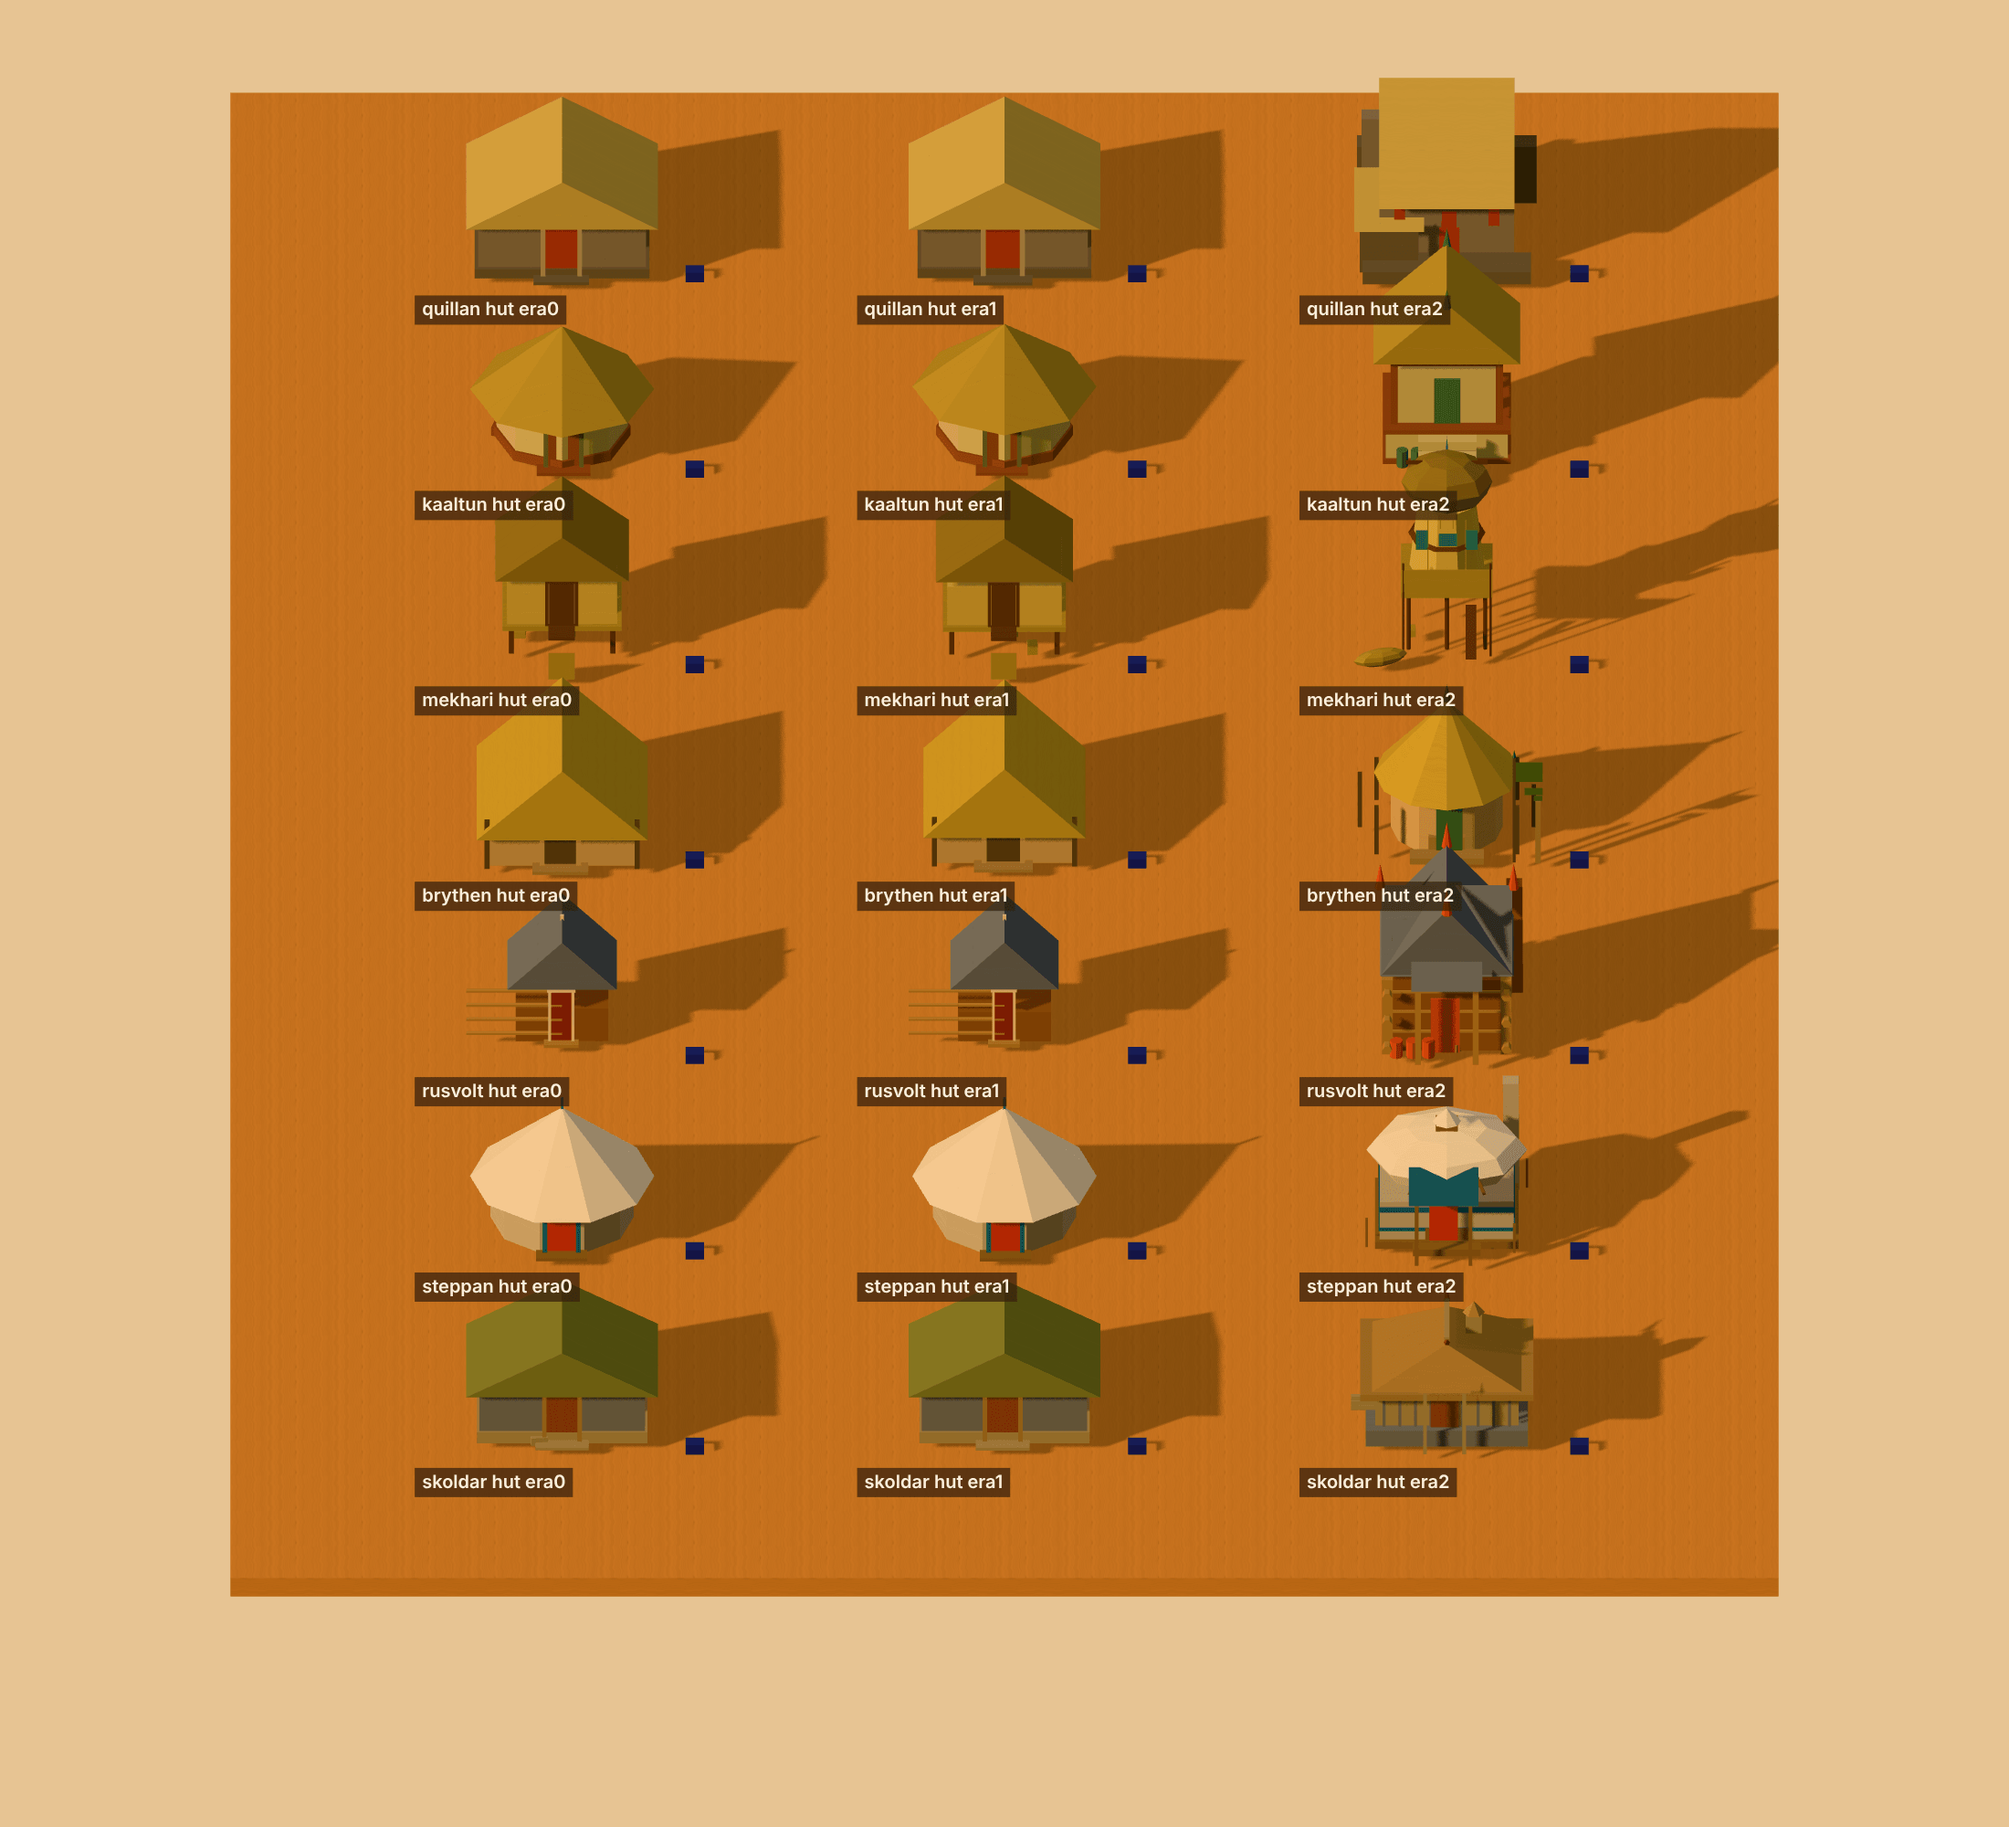
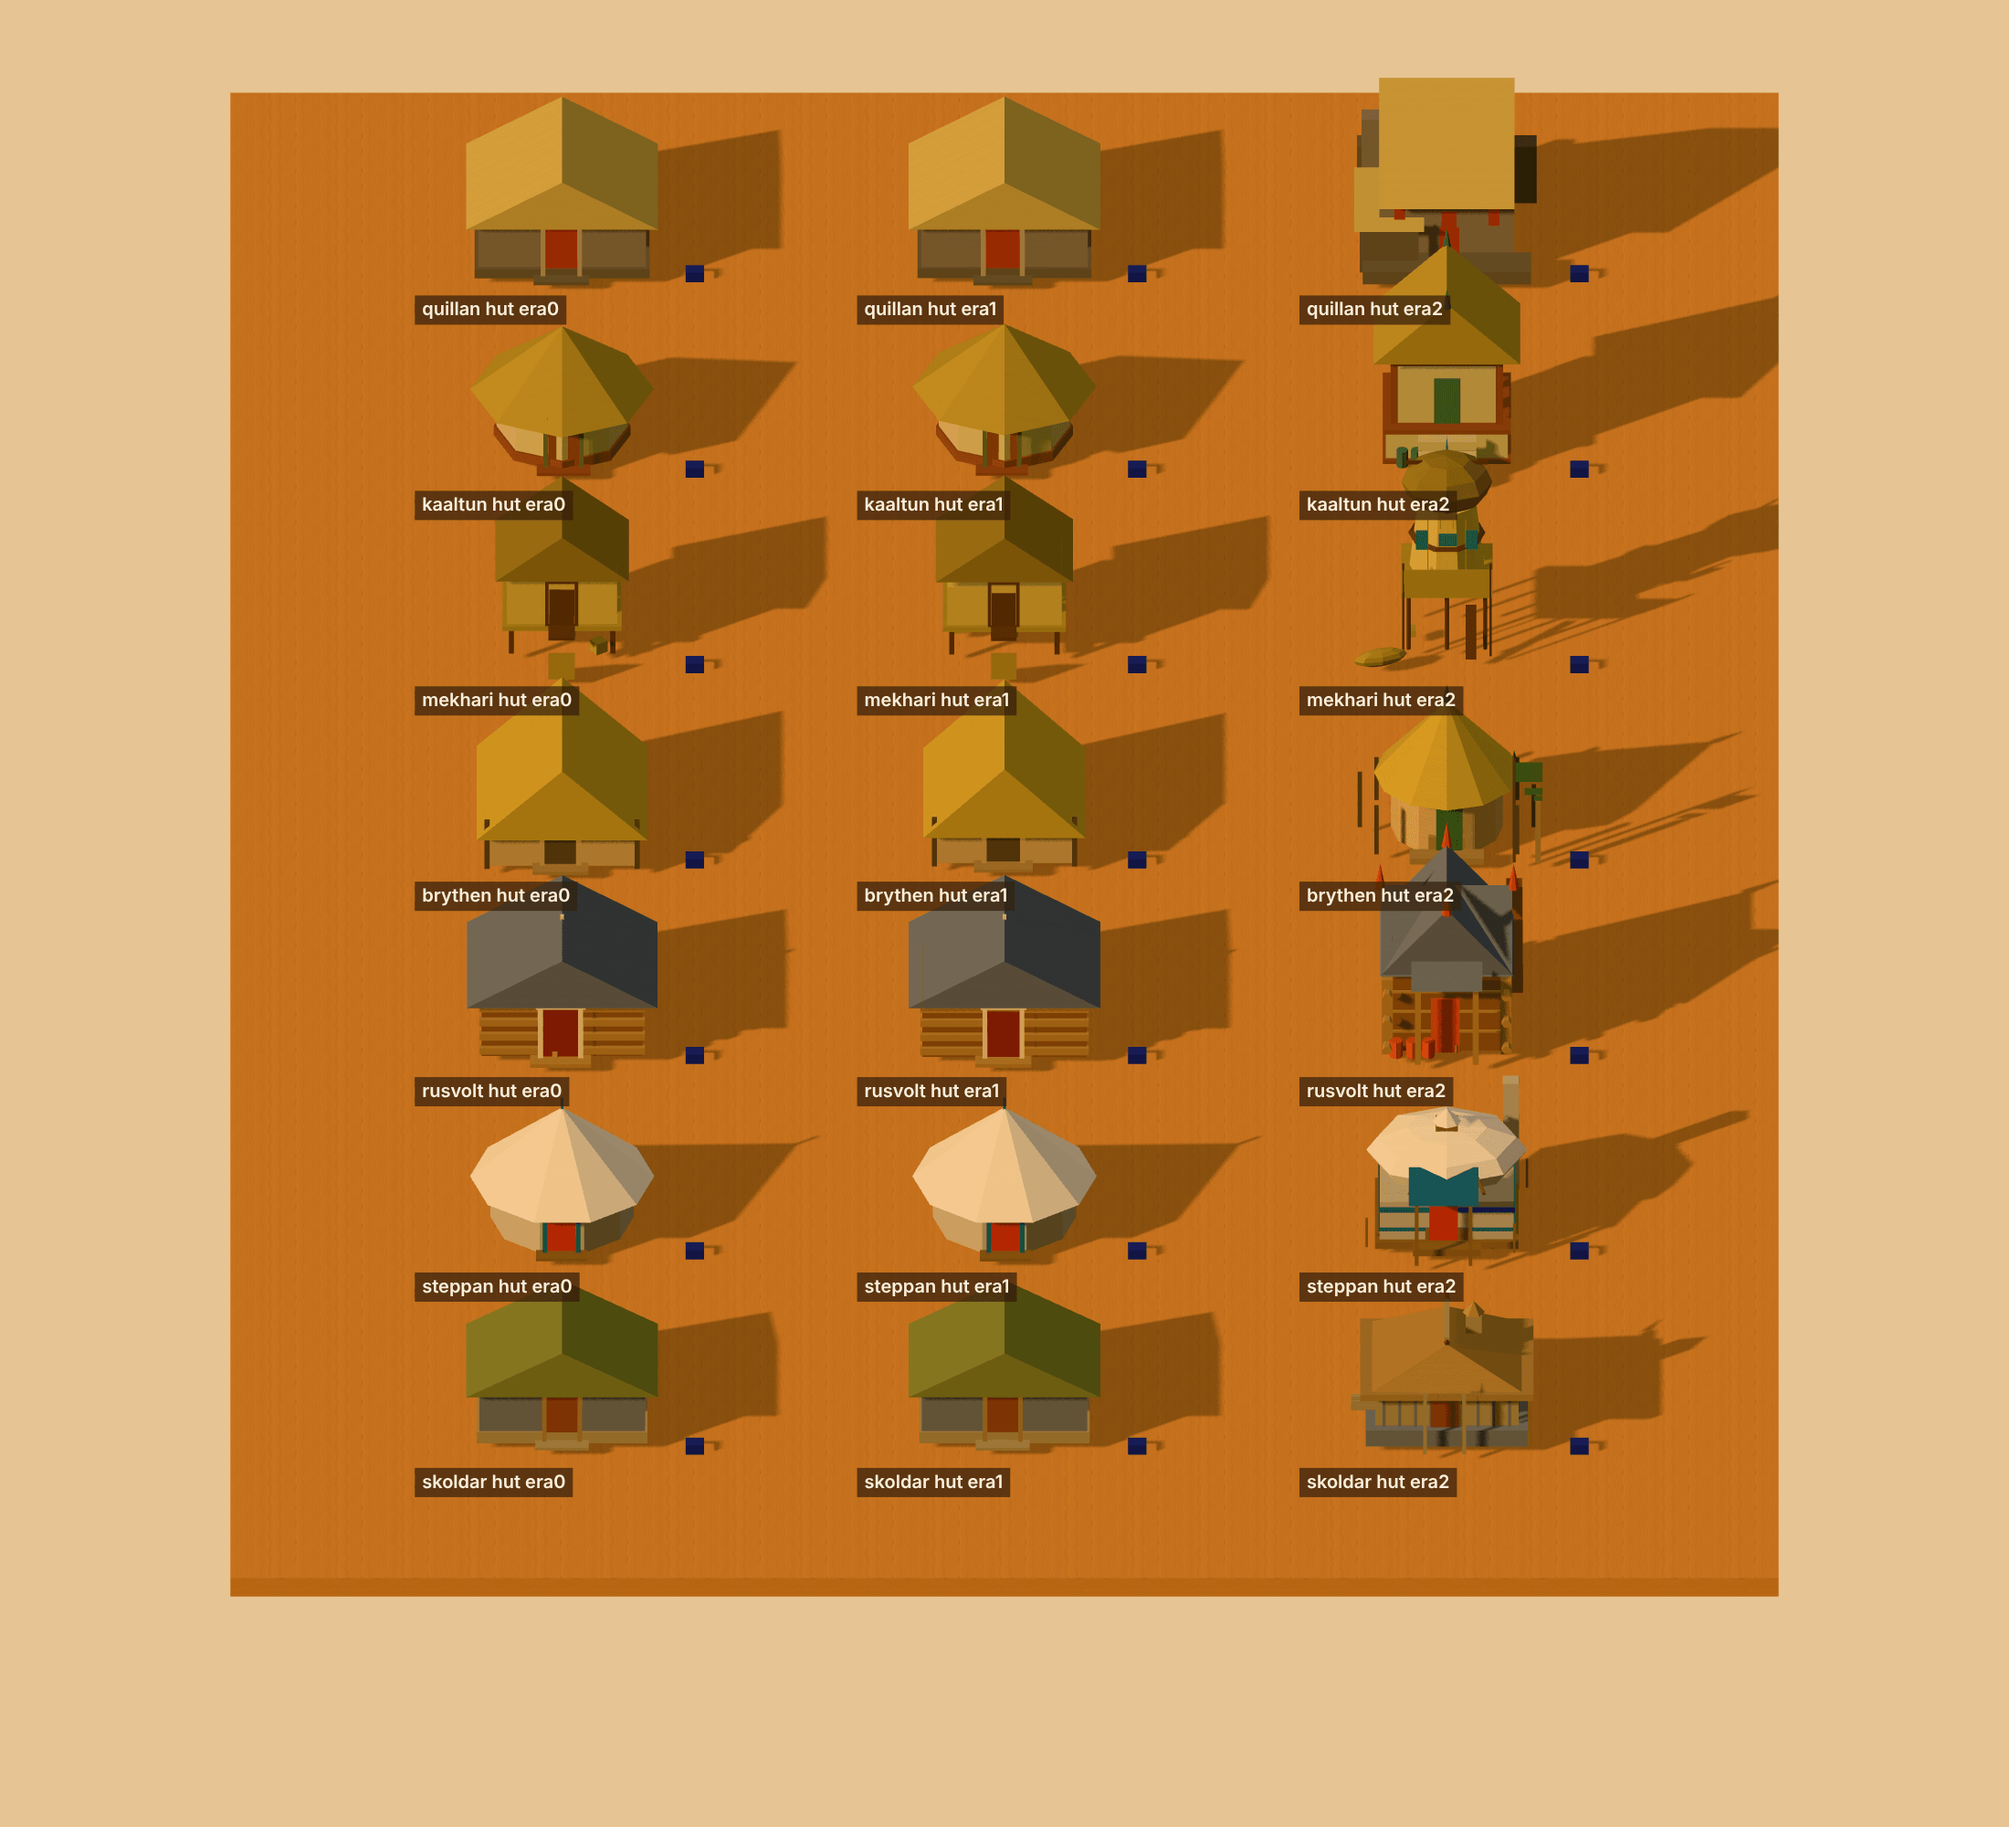
Placement demo renders, hut sheets after, raft/dugout bounds fix
Claude-Session: https://claude.ai/code/session_01Y7uzF3fMEAj74VCgmt9mjB

Changed region(s): [[0.4327, 0.465, 0.6182, 0.589], [0.2164, 0.465, 0.4018, 0.589]]

diff --git a/src/scene/civBuildings.ts b/src/scene/civBuildings.ts
@@ -73,11 +73,11 @@ function poor(g:G):Out{const {w,d,r}=g,k=POOR[g.civ],W=Math.min(w,d)*range(r,.74
   case 'conehut':{g.Cy('wall',W,1.55,[0,0,0],2,10);g.Pr('cone','roof',[W*1.45,2.4,W*1.45],[0,1.4,0],2,undefined,10);hutDoor(g,dx,R*.951+.03,.85,1.5);g.Cy('trim',W*1.02,.12,[0,1.1,0],1,10);return {entry:{x:dx,z:R+.5,width:.9}};}
   case 'sod':{const bw=W*1.15,bd=W*.95,wh=1.75;g.B('wall',[bw,wh,bd],[0,0,0],2);g.Pr('prism','roof',[bw+.7,1.5,bd+.7],[0,wh-.05,0],2);g.B('wall2',[bw+.2,.3,bd+.2],[0,0,0],1);hutDoor(g,dx,bd/2+.02);return {entry:{x:dx,z:bd/2+.5,width:.95}};}
   case 'lean':{const bw=W*1.0,bd=W*1.0,wh=1.1;g.B('wall',[bw,wh,bd],[0,0,0],2);g.Pr('prism','roof',[bw+.6,2.2,bd+.8],[0,wh-.05,0],2);g.post('trim',-bw/2,bd/2+.1,wh+.4,.14,1);g.post('trim',bw/2,bd/2+.1,wh+.4,.14,1);hutDoor(g,dx,bd/2+.02,.9,1.0);return {entry:{x:dx,z:bd/2+.5,width:.9}};}
-  case 'dugout':{const bw=W*1.15,bd=W*.95,wh=1.85;g.B('wall',[bw,wh,bd],[0,0,0],2);for(let i=0;i<4;i++)g.parts.push(part('cylinder',matId(g.civ,'wall2') as Part['mat'],[.22,bw+.15,.22],[0,.3+i*.45,bd/2+.06],1,[0,0,Math.PI/2],6));g.Pr('prism','roof',[bw+.8,1.5,bd+.8],[0,wh-.05,0],2);g.post('trim',0,0,wh+1.55,.1,1);hutDoor(g,dx,bd/2+.1);return {entry:{x:dx,z:bd/2+.5,width:.95}};}
+  case 'dugout':{const bw=W*1.15,bd=W*.95,wh=1.85;g.B('wall',[bw,wh,bd],[0,0,0],2);for(let i=0;i<4;i++)g.B('wall2',[bw+.12,.2,.2],[0,.15+i*.45,bd/2+.04],1);g.Pr('prism','roof',[bw+.8,1.5,bd+.8],[0,wh-.05,0],2);g.post('trim',0,0,wh+1.55,.1,1);hutDoor(g,dx,bd/2+.1);return {entry:{x:dx,z:bd/2+.5,width:.95}};}
   case 'tent':{g.Cy('wall',W*1.05,1.35,[0,0,0],2,10);g.Pr('cone','roof',[W*1.35,2.2,W*1.35],[0,1.3,0],2,undefined,10);g.post('trim',0,0,3.8,.07,1);hutDoor(g,dx,R*1.05*.951+.03,.9,1.3);return {entry:{x:dx,z:R+.5,width:.9}};}
   case 'longhut':{const bw=W*1.25,bd=W*.85,wh=1.7;g.B('wall',[bw,wh,bd],[0,0,0],2);g.Pr('prism','roof',[bw+.8,1.4,bd+.8],[0,wh-.05,0],2);g.B('wall2',[bw+.15,.35,bd+.15],[0,0,0],1);hutDoor(g,dx,bd/2+.02);return {entry:{x:dx,z:bd/2+.5,width:.95}};}
   case 'raft':{const bw=W*.95,bd=W*.8,fh=.85;for(const x of[-1,1])for(const z of[-1,1])g.post('trim',x*bw*.46,z*bd*.44,fh,.14,2);g.B('wall2',[bw+.3,.14,bd+.3],[0,fh,0],2);g.B('wall',[bw,1.6,bd],[0,fh+.14,0],2);g.Pr('prism','roof',[bw+.8,1.4,bd+.8],[0,fh+1.7,0],2);
-   g.B('trim',[.9,.1,.9],[dx,fh+.04,bd/2+.4],1);g.Pr('wedge','wall2',[.9,fh,.9],[dx,0,bd/2+1.1],1,[0,Math.PI,0]);const dk=darkSlot(g);g.B(dk,[.85,1.35,.1],[dx,fh+.14,bd/2+.02],0);for(const s of[-1,1])g.B('trim',[.12,1.45,.18],[dx+s*.5,fh+.14,bd/2+.04],0);g.B('trim',[1.1,.14,.18],[dx,fh+1.49,bd/2+.04],0);return {entry:{x:dx,z:bd/2+1.2,width:.9}};}
+   g.B('trim',[.9,.1,.9],[dx,fh+.04,bd/2+.4],1);g.Pr('wedge','wall2',[.9,fh,.9],[dx,0,bd/2+1.1],1,[0,Math.PI,0]);const dk=darkSlot(g);g.B(dk,[.85,1.35,.1],[dx,fh+.14,bd/2+.02],1);for(const s of[-1,1])g.B('trim',[.12,1.45,.18],[dx+s*.5,fh+.14,bd/2+.04],0);g.B('trim',[1.1,.14,.18],[dx,fh+1.49,bd/2+.04],0);return {entry:{x:dx,z:bd/2+1.2,width:.9}};}
   default:{g.Cy('wall',W,h*.85,[0,0,0],2,8);g.Cy('wall2',W*1.04,.3,[0,0,0],1,8);g.Pr('cone','roof',[W*1.4,2.0,W*1.4],[0,h*.85-.1,0],2,undefined,8);hutDoor(g,dx,R*.924+.03);return {entry:{x:dx,z:R+.5,width:.95}};}}
 }
 // ---------------------------------------------------------------- houses
